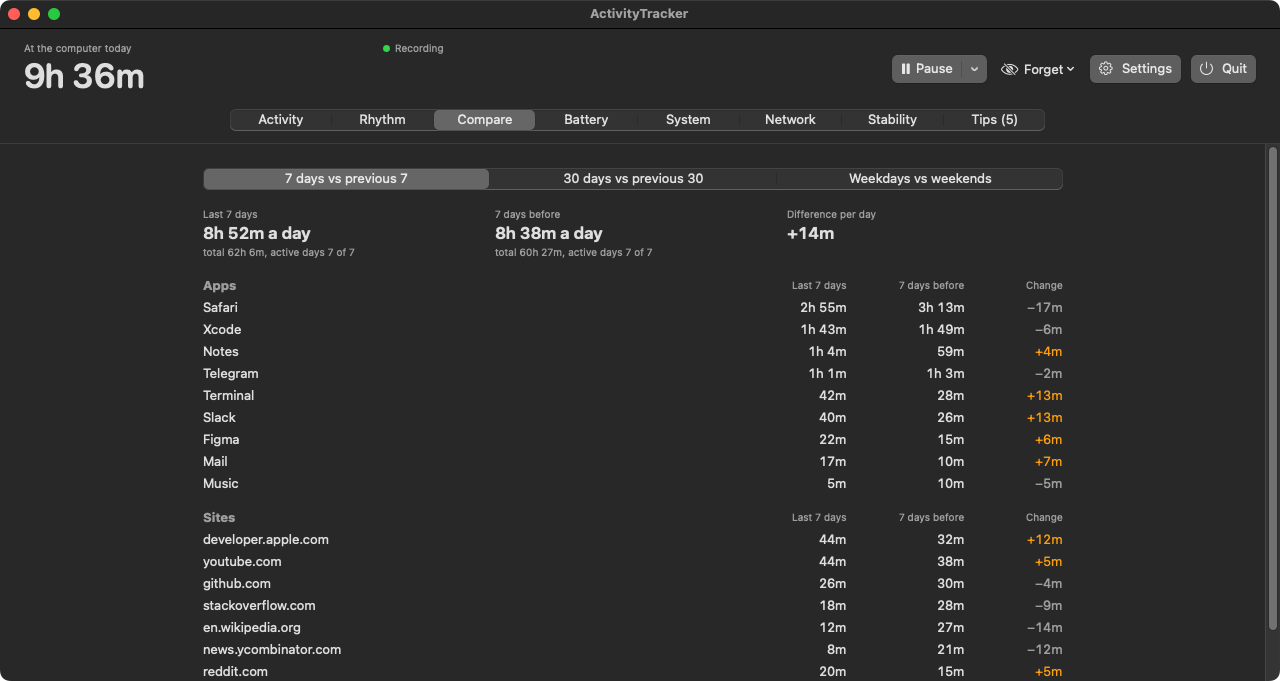
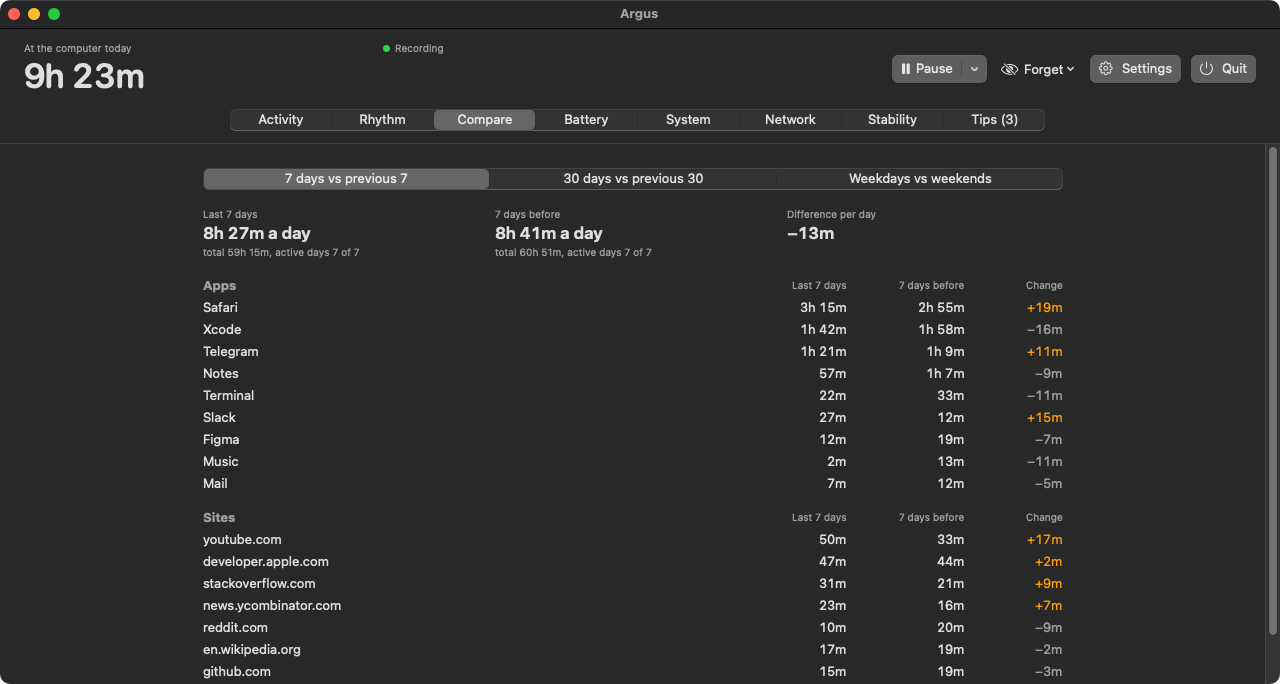
Страница: сборка 53

diff --git a/README.md b/README.md
@@ -1,11 +1,12 @@
 <p align="center">
-  <img src="icon.png" width="128" alt="ActivityTracker">
+  <img src="icon.png" width="128" alt="Argus">
 </p>
 
-<h1 align="center">ActivityTracker</h1>
+<h1 align="center">Argus</h1>
 
 <p align="center">
   <b>A private time and Mac-health tracker for macOS.</b><br>
+  <i>Named after Argus, the hundred-eyed giant who never slept.</i><br>
   How long you were at the computer, in which apps and on which websites, what drains the battery and what keeps
   your Mac awake.<br>
   Everything is computed and stored on your Mac only.
@@ -17,7 +18,7 @@
 </p>
 
 <p align="center">
-  <img src="screenshots/01-activity.png" width="900" alt="ActivityTracker window: today's activity">
+  <img src="screenshots/01-activity.png" width="900" alt="Argus window: today's activity">
 </p>
 
 ---
@@ -70,6 +71,7 @@
    rm -rf /Applications/ActivityTracker.app && mv ActivityTracker.app /Applications/
    open /Applications/ActivityTracker.app
    ```
+   (The file is still called `ActivityTracker.app`; Finder and the Dock show it as **Argus**.)
 3. On the first launch the app **restarts itself once**: it signs itself with a permanent key created on your Mac, so permissions survive updates.
 4. Grant permissions:
    - **Accessibility** (System Settings → Privacy & Security) to record window titles;
@@ -110,7 +112,7 @@ rm -rf ~/Library/Application\ Support/ActivityTracker
 rm -rf ~/Library/Caches/com.iopew.ActivityTracker ~/Library/Logs/ActivityTracker
 defaults delete com.iopew.ActivityTracker
 ```
-Then remove ActivityTracker from Accessibility, Automation and Login Items in System Settings.
+Then remove Argus from Accessibility, Automation and Login Items in System Settings.
 </details>
 
 <details>
